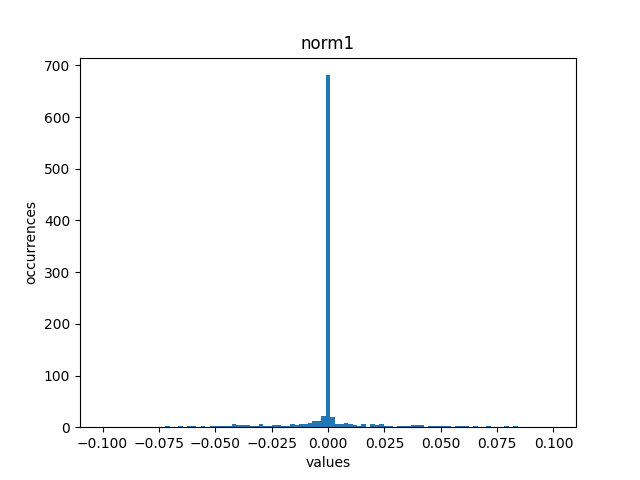
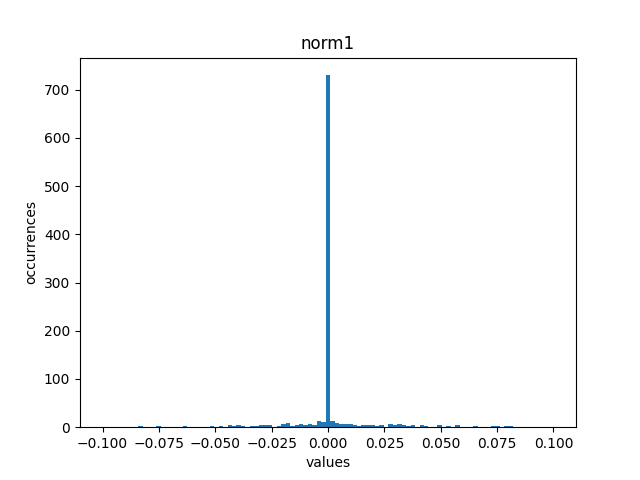
scipy version

diff --git a/sparse_uls/util.py b/sparse_uls/util.py
@@ -1,8 +1,8 @@
-from typing import Tuple, Optional, Callable, Union, Iterator, Dict
+from typing import Tuple
 
 import numpy as np
-import torch
-
+import scipy as sp
+import scipy.optimize
 
 def linear_subspace(A: np.ndarray, b: np.ndarray) -> Tuple[np.ndarray, np.ndarray]:
     '''
@@ -11,6 +11,8 @@ def linear_subspace(A: np.ndarray, b: np.ndarray) -> Tuple[np.ndarray, np.ndarra
     '''
     # https://web.stanford.edu/~boyd/cvxbook/bv_cvxbook.pdf (page 682)
     # https://math.stackexchange.com/questions/1942211/does-negative-transpose-sign-mean-inverse-of-a-transposed-matrix-or-transpose-of
+    if len(A.shape) != 2 or len(b.shape) != 1:
+        raise Exception("A must be 2D, b must be 1D")
     p, n = A.shape
     Q, R = np.linalg.qr(A.T, mode="complete")
     Q1, Q2 = Q[:, 0:p], Q[:, p:n]
@@ -19,25 +21,25 @@ def linear_subspace(A: np.ndarray, b: np.ndarray) -> Tuple[np.ndarray, np.ndarra
     return x_, Q2
 
 
-def lbfgs_optimizer(
-        lr: float = 1,
-        max_iter: int = 20,
-        max_eval: Optional[int] = None,
-        tolerance_grad: float = 1e-07,
-        tolerance_change: float = 1e-09,
-        history_size: int = 100,
-        line_search_fn: Optional[str] = None,
-) -> Callable[[Union[Iterator[torch.Tensor], Iterator[Dict]]], torch.optim.Optimizer]:
-    def optimizer(params: Union[Iterator[torch.Tensor], Iterator[Dict]]) -> torch.optim.Optimizer:
-        return torch.optim.LBFGS(
-            params=params,
-            lr=lr,
-            max_iter=max_iter,
-            max_eval=max_eval,
-            tolerance_grad=tolerance_grad,
-            tolerance_change=tolerance_change,
-            history_size=history_size,
-            line_search_fn=line_search_fn,
-        )
+def least_p(A: np.ndarray, b: np.ndarray, p: float = 2.0) -> np.ndarray:
+    '''
+    Minimizer of ||Ax+b||_p^p
+    '''
+    if len(A.shape) != 2 or len(b.shape) != 1:
+        raise Exception("A must be 2D, b must be 1D")
 
-    return optimizer
+    m, n = A.shape
+
+    def f(x: np.ndarray) -> np.ndarray:
+        return A.__matmul__(x).__add__(b)
+
+    def objective(x: np.ndarray) -> float:
+        return float(np.sum(np.abs(f(x))))
+
+    def gradient(x: np.ndarray) -> np.ndarray:
+        fx = f(x)
+        return A.T.__matmul__(np.sign(fx).__mul__(np.abs(fx).__pow__(p - 1)).__mul__(p))
+
+    x0 = np.random.random(size=(n,))
+    solution = sp.optimize.minimize(objective, x0, method="L-BFGS-B", jac=gradient)
+    return solution.x

diff --git a/sparse_uls/uls.py b/sparse_uls/uls.py
@@ -1,32 +1,17 @@
-from typing import Iterator, Dict, Callable, Union
-
 import numpy as np
-import torch
 
-from sparse_uls.util import linear_subspace, lbfgs_optimizer
+from sparse_uls.util import linear_subspace, least_p
 
 
-def solve(A: np.ndarray, b: np.ndarray, p: float = 1.0,
-          num_steps: int = 10,
-          optimizer: Callable[
-              [Union[Iterator[torch.Tensor], Iterator[Dict]]], torch.optim.Optimizer] = lbfgs_optimizer(),
-          ) -> np.ndarray:
-    m, n = A.shape
+def solve(A: np.ndarray, b: np.ndarray, p: float = 1.0) -> np.ndarray:
+    '''
+    Minimizer of ||x||_p^p
+    Given Ax=b
+    '''
+    if len(A.shape) != 2 or len(b.shape) != 1:
+        raise Exception("A must be 2D, b must be 1D")
+
     x_, Q2 = linear_subspace(A, b)
-    x__torch = torch.from_numpy(x_).requires_grad_(False)
-    Q2_torch = torch.from_numpy(Q2).requires_grad_(False)
-    z_torch = torch.rand(size=(n - m, 1)).requires_grad_(True)
-    optim = optimizer([z_torch, ])
-
-    def closure() -> torch.Tensor:
-        optim.zero_grad()
-        x_torch = x__torch.__add__(Q2_torch.__matmul__(z_torch))
-        objective = torch.sum(torch.abs(x_torch).__pow__(p))
-        objective.backward()
-        return objective
-
-    for i in range(num_steps):
-        optim.step(closure)
-
-    x_torch = x__torch.__add__(Q2_torch.__matmul__(z_torch))
-    return x_torch.detach().numpy()
+    z = least_p(Q2, x_, p)
+    x = Q2.__matmul__(z).__add__(x_)
+    return x

diff --git a/test.py b/test.py
@@ -1,16 +1,13 @@
 import numpy as np
 import matplotlib.pyplot as plt
 from sparse_uls.uls import solve
-
-from sparse_uls.util import lbfgs_optimizer
 n = 1000
 m = 200
 A = np.random.random(size=(m, n)).astype(dtype=np.float32)
-b = np.random.random(size=(m, 1)).astype(dtype=np.float32)
+b = np.random.random(size=(m)).astype(dtype=np.float32)
 
-
-x_norm2 = solve(A, b, 2, num_steps=100, optimizer=lbfgs_optimizer(lr=0.1))
-x_norm1 = solve(A, b, 1, num_steps=100, optimizer=lbfgs_optimizer(lr=0.1))
+x_norm2 = solve(A, b, 2)
+x_norm1 = solve(A, b, 1)
 
 
 def draw_hist(x: np.ndarray, title: str = "norm"):

diff --git a/setup.py b/setup.py
@@ -2,7 +2,7 @@ import setuptools
 
 setuptools.setup(
     name="sparse_uls",
-    version="1.1",
+    version="2.0",
     author="Nguyen Ngoc Khanh",
     author_email="nguyenngockhanh.pbc@gmail.com",
     description="optimize norm with underdetermined system equality constraint",

diff --git a/sparse_uls/__init__.py b/sparse_uls/__init__.py
@@ -1,2 +1,2 @@
-import sparse_uls.uls
 import sparse_uls.util
+import sparse_uls.uls
